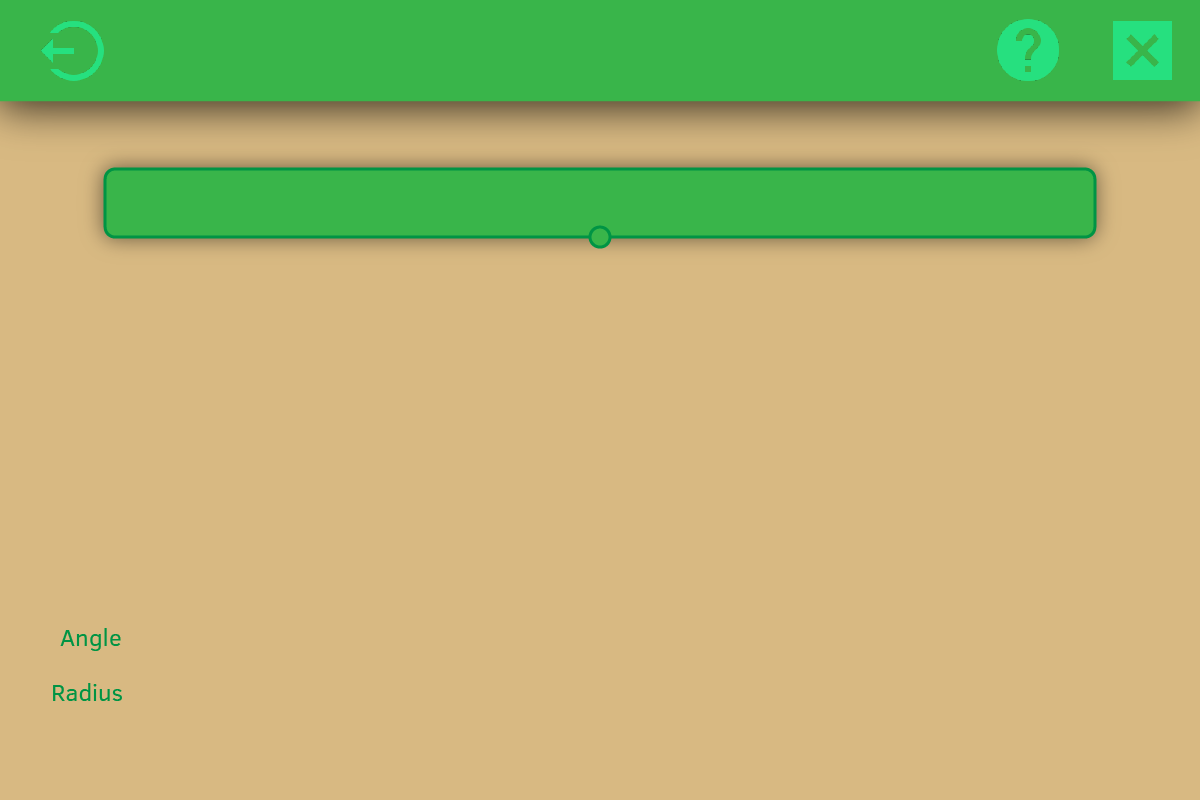
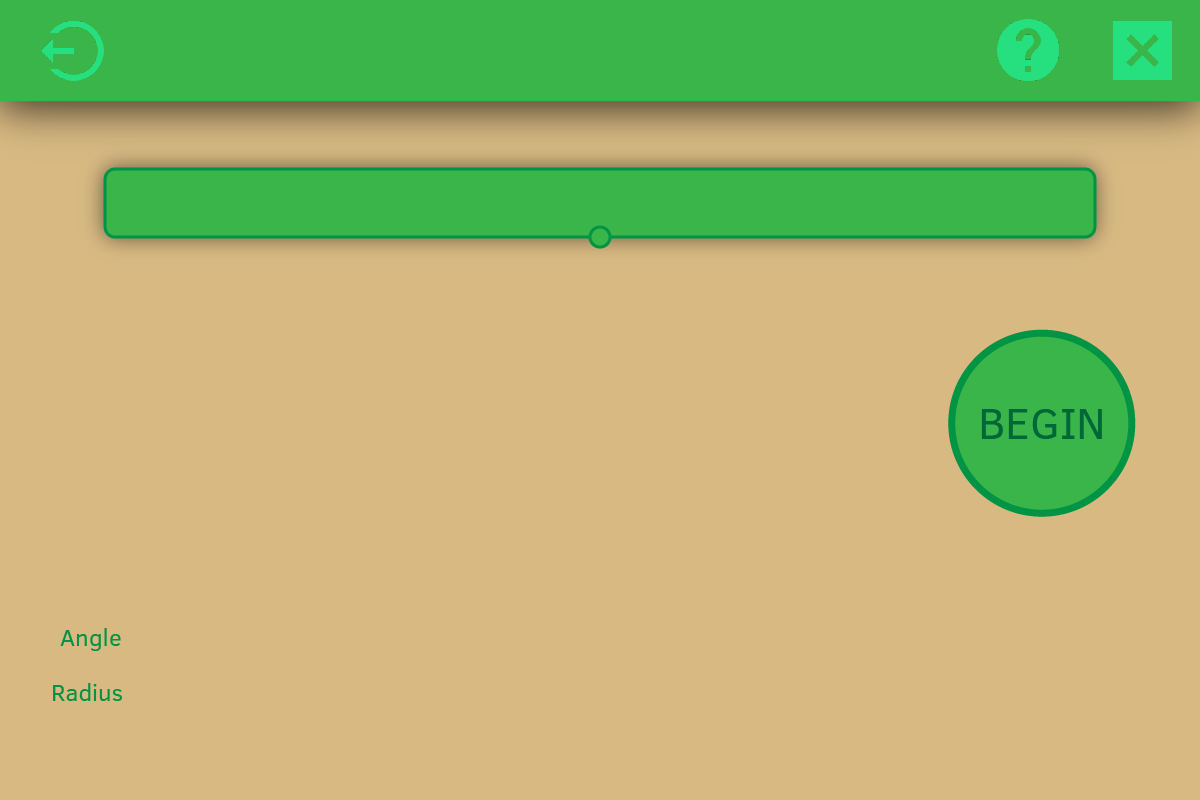
Created begin button for shm

Changed region(s): [[0.7708, 0.4062, 0.9558, 0.6562]]

diff --git a/SHM.java b/SHM.java
@@ -7,7 +7,7 @@ import greenfoot.*;  // (World, Actor, GreenfootImage, Greenfoot and MouseInfo)
  * @version (a version number or a date)
  */
 public class SHM extends World
-{
+{ 
     private Button startButton;
     private Button backButton;
     private Button helpButton;
@@ -21,6 +21,8 @@ public class SHM extends World
     private Label angleLabel;
     
     private Pendulum pendulum;
+    
+    private boolean started = false;
 
     /**
      * Constructor for objects of class SHM.
@@ -49,11 +51,13 @@ public class SHM extends World
             Greenfoot.stop();
         }
         
-        pendulum.setPosition(radius.getValue(), angle.getValue() + 270);
+        if (!started) {
+            pendulum.setPosition(radius.getValue(), angle.getValue());
+        }
     }
     
     private void prepare() {
-        startButton = new EllipseButton(948, 332, 187, 187, new Color(0, 148, 68, 0));
+        startButton = new EllipseButton(948, 329, 187, 187, new Color(0, 148, 68, 0));
         startButton.addToWorld(this);
         startButton.setHoverColour(new Color(0, 148, 68, 120));
         
@@ -69,10 +73,10 @@ public class SHM extends World
         exitButton.addToWorld(this);
         exitButton.setHoverColour(new Color(57, 181, 74, 140));
         
-        angle = new Slider(139, 633, 336, 14, new Color(188, 190, 192), 20, -90, 90, new Color(57, 181, 74), new Color(0, 148, 68), new Color(0, 148, 68), 3);
+        angle = new Slider(139, 633, 336, 14, new Color(188, 190, 192), 20, 180, 360, new Color(57, 181, 74), new Color(0, 148, 68), new Color(0, 148, 68), 3);
         angle.addToWorld(this);
         
-        radius = new Slider(139, 687, 336, 14, new Color(188, 190, 192), 20, 0, 100, new Color(57, 181, 74), new Color(0, 148, 68), new Color(0, 148, 68), 3);
+        radius = new Slider(139, 687, 336, 14, new Color(188, 190, 192), 20, 0, 400, new Color(57, 181, 74), new Color(0, 148, 68), new Color(0, 148, 68), 3);
         radius.addToWorld(this);
         
         angleLabel = new LinkedLabel(470, 621, 80, 36, new Color(57, 181, 74, 0), () -> String.format("%.02f", angle.getValue()), 30, new Color(0, 148, 68));
@@ -81,7 +85,7 @@ public class SHM extends World
         radiusLabel = new LinkedLabel(470, 675, 80, 36, new Color(57, 181, 74, 0), () -> String.format("%.02f", radius.getValue()), 30, new Color(0, 148, 68));
         radiusLabel.addToWorld(this);
         
-        pendulum = new Pendulum(40, 315, 1);
+        pendulum = new Pendulum(200, 270, 1);
         pendulum.addToWorld(this);
         
         time = new LinkedLabel(100, 400, 300, 200, new Color(0, 0, 0, 0), () -> String.format("%.02f", pendulum.getTime()), 40, new Color(0, 148, 68));
@@ -90,5 +94,6 @@ public class SHM extends World
     
     private void begin() {
         pendulum.resume();
+        started = true;
     }
 }

diff --git a/Pendulum.java b/Pendulum.java
@@ -14,7 +14,7 @@ public class Pendulum extends Actor
     private Position position = new Position();
     private Velocity velocity = new Velocity();
     private Acceleration acceleration = new Acceleration();
-    private final double dt = 0.01;
+    private final double dt = 0.1;
     
     private double radius;
     private double mass;
@@ -27,7 +27,7 @@ public class Pendulum extends Actor
     private boolean paused = true;
     
     public Pendulum(double radius, double theta, double mass) {
-        setPosition(radius, Math.toRadians(theta));
+        setPosition(radius, theta);
         
         this.radius = radius;
         this.mass = mass;
@@ -45,6 +45,7 @@ public class Pendulum extends Actor
             time += dt;
             updatePosition();
         }
+
         setLocation((int) position.getX(), getWorld().getHeight() - (int) position.getY());
         createImage();
     }
@@ -83,13 +84,10 @@ public class Pendulum extends Actor
         acceleration = nettForce.getAcceleration(mass);
         velocity.updateWithAcceleration(acceleration, dt);
         position.updateWithVelocity(velocity, dt, getWorld().getWidth());
-        
-        setLocation((int) position.getX(), getWorld().getHeight() - (int) position.getY());
     }
     
     private Force calculateTension(double theta) {
         double magnitude = gravity.getMagnitude() * Math.sin(theta) - mass * velocity.getMagnitude() * velocity.getMagnitude() / radius;
-        
         double x = magnitude * Math.cos(theta);
         double y = magnitude * Math.sin(theta);
 

diff --git a/ProjectileMotion.java b/ProjectileMotion.java
@@ -65,7 +65,7 @@ public class ProjectileMotion extends World
      * That is: create the initial objects and add them to the world.
      */
     private void prepare() {
-        startButton = new EllipseButton(948, 332, 187, 187, new Color(0, 148, 68, 0));
+        startButton = new EllipseButton(948, 329, 187, 187, new Color(0, 148, 68, 0));
         startButton.addToWorld(this);
         startButton.setHoverColour(new Color(0, 148, 68, 120));
         

diff --git a/Slider.java b/Slider.java
@@ -47,7 +47,7 @@ public class Slider extends UIBase
     }
     
     public void drag(int mouseX) {
-        value = (mouseX - this.x) / (double) width * max + min;
+        value = (mouseX - this.x) / (double) width * (max - min) + min;
         value = Math.max(Math.min(value, max), min);
         createImage();
     }
